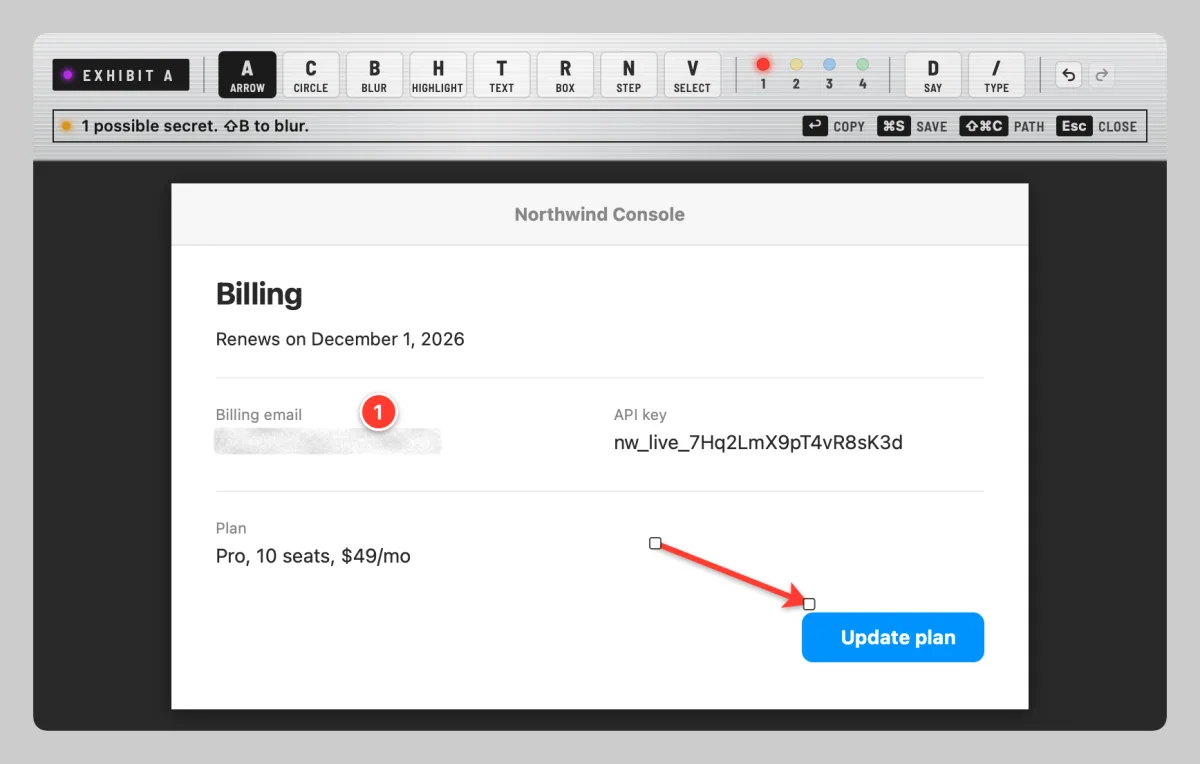
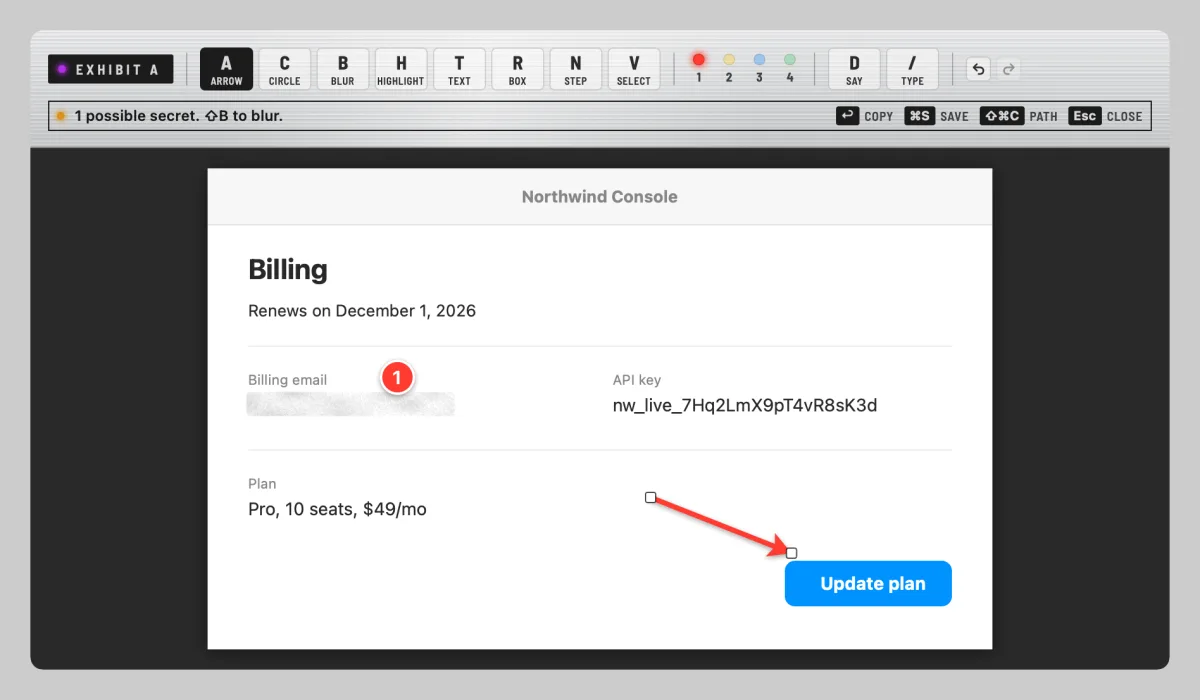
Switch the site to its launch state (#68)
* Point the site's calls to action at the released download

v0.1.0 is out and the repo is public, so "Coming soon" becomes the DMG
link, View source, and the Homebrew cask, as on Kill Cord's site.

* Re-export the site screenshots from the re-rendered app samples

docs/samples/app/ was re-rendered with the toolbar seam and selection box
fixes; the editor shots are now 1200x700, so the hero's size follows.

* Hold the unapproved maker note off the homepage for launch

Corey has not approved the "Why it exists" text, so the section moves to
docs/release/maker-note-draft.html until he does. Nothing linked to it.

* Fit the Homebrew command on a phone-width screen

The exhibit-a cask line scrolled inside its box at 390 pixels wide in the
"Get Exhibit A" section; a little less padding and type makes it fit.

* Record the site's launch state in its README and checklist

---------

diff --git a/site/src/pages/index.html b/site/src/pages/index.html
@@ -5,9 +5,11 @@
       <h1 id="hero-title">Mark up a screenshot <span>in a few keystrokes.</span></h1>
       <p class="bx-lede">Exhibit A is a menu bar screenshot tool. Press one key per mark, say what you want changed, or let an agent do it with one command. Emails, keys and card numbers blur so the pixels underneath are gone from the file.</p>
       <div class="bx-cta">
-        <span class="bx-btn soon-btn">Coming soon</span>
-        <a class="bx-btn sec" href="#agents">See the command line <span aria-hidden="true">↓</span></a>
+        <a class="bx-btn" href="{{download_url}}">Download for Mac <span aria-hidden="true">↓</span></a>
+        <a class="bx-btn sec" href="https://github.com/coreyhaines31/exhibita">View source <span aria-hidden="true">↗</span></a>
       </div>
+      <p class="brew-label">Or install with Homebrew</p>
+      <pre class="bx-code brew"><code>brew install --cask coreyhaines31/tap/exhibit-a</code></pre>
       <p class="bx-meta">Free with no account · Captures stay on your Mac · macOS 14 Sonoma or later</p>
     </div>
     <figure class="stage" aria-labelledby="stage-caption">
@@ -15,7 +17,7 @@
         <span class="bx-screw"></span><span class="bx-screw"></span><span class="bx-screw"></span><span class="bx-screw"></span>
         <picture>
           <source srcset="/shots/editor-applied-dark.webp" media="(prefers-color-scheme: dark)">
-          <img class="shot" src="/shots/editor-applied-light.webp" alt="The Exhibit A editor: a metal toolbar with one key per mark, a status line reading Blurred 1 email, circled Update plan, and a billing page with the email blurred and the Update plan button circled in red." width="1200" height="763">
+          <img class="shot" src="/shots/editor-applied-light.webp" alt="The Exhibit A editor: a metal toolbar with one key per mark, a status line reading Blurred 1 email, circled Update plan, and a billing page with the email blurred and the Update plan button circled in red." width="1200" height="700">
         </picture>
       </div>
       <figcaption id="stage-caption">The editor after “blur the emails and circle update plan”, rendered from the app’s code on a sample screen.</figcaption>
@@ -154,32 +156,19 @@ exhibit mcp</code></pre>
   </div>
 </section>
 
-<section class="bx-section" id="why">
-  <div class="bx-wrap">
-    <div class="bx-maker">
-      <img src="/corey-152.webp" srcset="/corey-76.webp 1x, /corey-152.webp 2x, /corey-228.webp 3x" alt="Corey Haines" width="76" height="76">
-      <div>
-        <span class="bx-strip">Why it exists</span>
-        <p>I share marked-up screenshots all day, and so do the agents working on my Mac. Every time it was the same routine: take the shot, open Markup, hunt for the arrow, and still no quick way to hide an email. When an agent wanted to show me something, it couldn’t point at all. So I built the app I wanted: one key per mark, a sentence when that’s faster, and a command an agent can run. And it’s free.</p>
-        <cite>Corey Haines, maker of Exhibit A and <a href="#apps">more free Mac apps</a></cite>
-      </div>
-    </div>
-  </div>
-</section>
-
 <section class="bx-section" id="faq" aria-labelledby="faq-title">
   <div class="bx-wrap">
     <span class="bx-eyebrow">Questions</span>
-    <h2 id="faq-title">Before it ships.</h2>
+    <h2 id="faq-title">Before you install.</h2>
     <div class="bx-faq faq-list">
-      <details><summary>When can I get it?</summary><p>Exhibit A isn’t released yet. It’s built and unit tested, and still needs checking on a real Mac before the first release. The download will be on this page when it ships.</p></details>
+      <details><summary>How do I get it?</summary><p>Download the DMG from this page, or run <code>brew install --cask coreyhaines31/tap/exhibit-a</code>. It needs macOS 14 Sonoma or later, and checks for updates itself.</p></details>
       <details><summary>What permissions does it need?</summary><p>Screen Recording, once, to take captures. The microphone and speech recognition only the first time you hold D. The <code>exhibit</code> command never has or asks for a permission; live captures come from the app.</p></details>
       <details><summary>Can someone recover what I blurred?</summary><p>Not from an exported file. It’s flat pixels, and the blur is built only from pixels outside the blurred area. In the editor, marks stay editable until you export, so you can still move or remove a blur.</p></details>
       <details><summary>Does voice need the internet?</summary><p>No. Speech is turned into text on your Mac, never on a server. The first time, macOS may need to download its speech model.</p></details>
       <details><summary>Do I need an AI model?</summary><p>No. The built-in grammar handles plain commands like “blur the emails” or “circle Pricing”. Free-form requests need a model server you run on this Mac, set up in Settings. Exhibit A only accepts an address on this Mac.</p></details>
       <details><summary>What does an agent get to see?</summary><p>The capture with detected secrets already blurred (a Settings switch), and text read from the screen marked as data, not instructions. Detection is pattern matching, so it can miss things. Never-capture apps are never in the image.</p></details>
       <details><summary>How long are captures kept?</summary><p>30 days by default, so marks stay editable. Retention is a setting, including deleting a capture once you export it, and you can purge history at any time.</p></details>
-      <details><summary>What does it cost?</summary><p>Nothing. Exhibit A is free with no account. The source is available under the Functional Source License (FSL-1.1-MIT), and each version becomes MIT two years after release.</p></details>
+      <details><summary>What does it cost?</summary><p>Nothing. Exhibit A is free with no account. The source is on GitHub under the Functional Source License (FSL-1.1-MIT), and each version becomes MIT two years after release.</p></details>
     </div>
   </div>
 </section>
@@ -188,11 +177,14 @@ exhibit mcp</code></pre>
   <div class="bx-wrap get-grid">
     <div>
       <span class="bx-eyebrow">Get Exhibit A</span>
-      <h2 id="install-title">Coming soon.</h2>
-      <p class="bx-intro">Free, with no account and no subscription. It needs macOS 14 Sonoma or later. The download and a Homebrew cask arrive with the first release.</p>
+      <h2 id="install-title">Press the hotkey. Mark it. Press Return.</h2>
+      <p class="bx-intro">Free, with no account and no subscription. It needs macOS 14 Sonoma or later. Open the DMG and drag Exhibit A to Applications, or install it with Homebrew.</p>
       <div class="bx-cta">
-        <span class="bx-btn soon-btn">Coming soon</span>
+        <a class="bx-btn" href="{{download_url}}">Download for Mac <span aria-hidden="true">↓</span></a>
+        <a class="bx-btn sec" href="https://github.com/coreyhaines31/exhibita">View source <span aria-hidden="true">↗</span></a>
       </div>
+      <p class="brew-label">Or install with Homebrew</p>
+      <pre class="bx-code brew"><code>brew install --cask coreyhaines31/tap/exhibit-a</code></pre>
     </div>
     <div class="bx-mount get-mount" aria-hidden="true">
       <span class="bx-screw"></span><span class="bx-screw"></span><span class="bx-screw"></span><span class="bx-screw"></span>

diff --git a/docs/release/maker-note-draft.html b/docs/release/maker-note-draft.html
@@ -1,0 +1,13 @@
+<!-- Draft "Why it exists" maker note, removed from the homepage for launch; awaits Corey's approval before it goes back above the FAQ in site/src/pages/index.html. -->
+<section class="bx-section" id="why">
+  <div class="bx-wrap">
+    <div class="bx-maker">
+      <img src="/corey-152.webp" srcset="/corey-76.webp 1x, /corey-152.webp 2x, /corey-228.webp 3x" alt="Corey Haines" width="76" height="76">
+      <div>
+        <span class="bx-strip">Why it exists</span>
+        <p>I share marked-up screenshots all day, and so do the agents working on my Mac. Every time it was the same routine: take the shot, open Markup, hunt for the arrow, and still no quick way to hide an email. When an agent wanted to show me something, it couldn’t point at all. So I built the app I wanted: one key per mark, a sentence when that’s faster, and a command an agent can run. And it’s free.</p>
+        <cite>Corey Haines, maker of Exhibit A and <a href="#apps">more free Mac apps</a></cite>
+      </div>
+    </div>
+  </div>
+</section>

diff --git a/site/src/assets/styles.css b/site/src/assets/styles.css
@@ -16,8 +16,8 @@ img {max-width: 100%; height: auto}
 .fine {font-size: 14px; color: var(--bx-muted); line-height: 1.55; margin-top: 16px}
 .bx-btn span {line-height: 1}
 /* Not released yet: the primary button is a label, not a link. */
-.soon-btn {cursor: default; opacity: .78}
-.soon-btn:hover {filter: none}
+.brew-label {margin-top: 18px; font: 600 12px/1 var(--bx-display); letter-spacing: .2em; text-transform: uppercase; color: var(--bx-muted)}
+.brew {margin: 8px 0 0; width: fit-content}
 
 /* Header: transparent over the homepage hero, brushed elsewhere */
 .site-header {background: var(--bx-brush); border-bottom: 1px solid rgba(0,0,0,.25)}
@@ -121,6 +121,8 @@ img {max-width: 100%; height: auto}
 @media (max-width: 420px) {
   .stage-mount {padding: 12px}
   .keys {grid-template-columns: minmax(0, 1fr)}
+  .brew {width: 100%; padding-inline: 10px}
+  .brew code {font-size: .85em}
 }
 
 .bx-card .bx-strip, .bx-card .bx-led {justify-self: start}

diff --git a/site/src/layouts/footer.html b/site/src/layouts/footer.html
@@ -20,7 +20,7 @@
     <div class="bx-wrap">
       <a class="footer-brand" href="/"><img src="/icon-64.png" alt="" width="20" height="20">Exhibit A</a>
       <p>Mark up a screenshot in a few keystrokes.</p>
-      <div class="footer-links"><a href="/#marks">Marks</a><a href="/#voice">Voice</a><a href="/#agents">For agents</a><a href="/privacy/">Privacy</a><a href="/#install">Coming soon</a><span>© 2026 Exhibit A</span></div>
+      <div class="footer-links"><a href="/#marks">Marks</a><a href="/#voice">Voice</a><a href="/#agents">For agents</a><a href="/privacy/">Privacy</a><a href="https://github.com/coreyhaines31/exhibita">Source code</a><a href="/#install">Download</a><span>© 2026 Exhibit A</span></div>
     </div>
   </div>
 </footer>

diff --git a/site/src/layouts/header.html b/site/src/layouts/header.html
@@ -2,6 +2,6 @@
   <div class="bx-nav bx-wrap">
     <a class="bx-brand" href="/" aria-label="Exhibit A home"><img src="/icon-64.png" alt="" width="32" height="32">Exhibit A</a>
     <nav aria-label="Main navigation"><a href="/#marks">Marks</a><a href="/#voice">Voice</a><a href="/#agents">For agents</a><a href="/privacy/">Privacy</a><a href="/#faq">FAQ</a></nav>
-    <span class="bx-btn header-cta soon-btn">Coming soon</span>
+    <a class="bx-btn header-cta" href="{{download_url}}">Download</a>
   </div>
 </header>

diff --git a/site/scripts/og.html b/site/scripts/og.html
@@ -27,6 +27,6 @@
 <body>
   <div class="brand"><img src="../src/assets/family/exhibit.png" alt="">Exhibit A</div>
   <h1>Mark up a screenshot <span>in a few keystrokes.</span></h1>
-  <div class="foot"><span>Free · Keys, voice or one command · macOS 14+</span><span class="plate"><i></i>exhibitaformac.com</span></div>
+  <div class="foot"><span>Free download · Keys, voice or one command · macOS 14+</span><span class="plate"><i></i>exhibitaformac.com</span></div>
 </body>
 </html>

diff --git a/site/scripts/build.py b/site/scripts/build.py
@@ -13,8 +13,11 @@ layout = Template((source / 'layouts/base.html').read_text())
 partials = {name: (source / f'layouts/{name}.html').read_text().strip() for name in ('header', 'footer')}
 
 
+download_url = 'https://github.com/coreyhaines31/exhibita/releases/latest/download/ExhibitA.dmg'
+
+
 def fill(text):
-    return text
+    return text.replace('{{download_url}}', download_url)
 
 
 shared = {name: fill(partials[name]) for name in ('header', 'footer')}
@@ -30,6 +33,7 @@ app = {
     'operatingSystem': 'macOS 14 or later',
     'license': 'https://fsl.software/FSL-1.1-MIT.template.md',
     'image': site + 'og.png',
+    'downloadUrl': 'https://github.com/coreyhaines31/exhibita/releases/latest',
     'offers': {'@type': 'Offer', 'price': '0', 'priceCurrency': 'USD'},
 }
 

diff --git a/docs/release/site-launch.md b/docs/release/site-launch.md
@@ -5,7 +5,7 @@ The site in `site/` is built and checked locally (`make lint`) but not deployed.
 ## 1. Before launch day
 
 - [ ] If `docs/samples/app/` is re-rendered again before launch, re-export the screenshots in `site/src/assets/shots/` (they already show the final `#b42ee8` light): `cwebp -q 82 -resize 1200 0 docs/samples/app/editor-applied-light.png -o site/src/assets/shots/editor-applied-light.webp`, and the same for `editor-applied-dark`, `editor-marked-light`, `panel-history-*` (no resize), `docs/samples/all-marks.png` and `docs/samples/cli-demo.png` (`-resize 1140 0`). Look at each one.
-- [ ] Corey approves the "Why it exists" paragraph on the homepage (it is a draft in his voice, like the other drafts in `mac-app-kit/site-kit/sections/maker-copy.md`).
+- [ ] Corey approves the "Why it exists" paragraph (a draft in his voice, like the other drafts in `mac-app-kit/site-kit/sections/maker-copy.md`). It is off the homepage for launch; the section is kept in `docs/release/maker-note-draft.html`, to go back above the FAQ once approved.
 - [ ] Recheck every claim against what was verified live (`docs/product/unit*-live-checklist.md`). The copy states only what the code does; it gives no timings and names no tested clients on purpose.
 
 ## 2. Vercel project (team `coreys-apps`)
@@ -32,11 +32,13 @@ Then wait for Vercel to show both domains as valid, and check `https://exhibitaf
 
 Siblings load TracerKit, which loads Headstream (and Fathom on some), with one script tag in `base.html`'s head (Kill Cord: `<script async src="https://tracerkit.com/t.js" data-key="tk_...">`).
 
-- [ ] Request a TracerKit site key for `exhibitaformac.com` and a Headstream property under it.
+- [ ] Request a TracerKit site key for `exhibitaformac.com` and a Headstream property under it. Not done at launch: the Headstream project could not be created from an agent session, so the site shipped with no analytics and the privacy page says so.
 - [ ] Add the one script tag to `site/src/layouts/base.html`, before `</head>`.
 - [ ] Rewrite the "exhibitaformac.com" section of `site/src/pages/privacy/index.html`: it currently says the site sets no cookies and loads no analytics. Use Kill Cord's wording (`killcord/site/src/pages/privacy/index.html`, section "killcord.app") as the model.
 
 ## 5. At release: switch the calls to action
+
+Done for v0.1.0 (issue 66): screenshots re-exported, calls to action, Homebrew, headings, FAQ, og card, description and `downloadUrl`.
 
 When v1 is notarized and the cask is in `coreyhaines31/homebrew-tap`:
 

diff --git a/site/README.md b/site/README.md
@@ -14,7 +14,7 @@ The look is the Mac app family's Brushed design: `src/assets/brushed.css`, `font
 
 Screenshots in `src/assets/shots/` are WebP copies of the committed offscreen renders in `docs/samples/app/` and `docs/samples/`. When those renders change, re-export them (`cwebp -q 82 -resize 1200 0 in.png -o out.webp`).
 
-Copy rules: no em dashes anywhere user-facing, "free, source available" (never "open source"), and only what the app does today. Exhibit A is unreleased: the call to action is "Coming soon" and there is no download or GitHub link yet. `docs/release/site-launch.md` lists what changes at launch.
+Copy rules: no em dashes anywhere user-facing, "free, source available" (never "open source"), and only what the app does today. The calls to action link the latest release DMG (`{{download_url}}`, set in `scripts/build.py`), the source on GitHub and the Homebrew cask. `docs/release/site-launch.md` is the launch checklist.
 
 ## Preview
 
